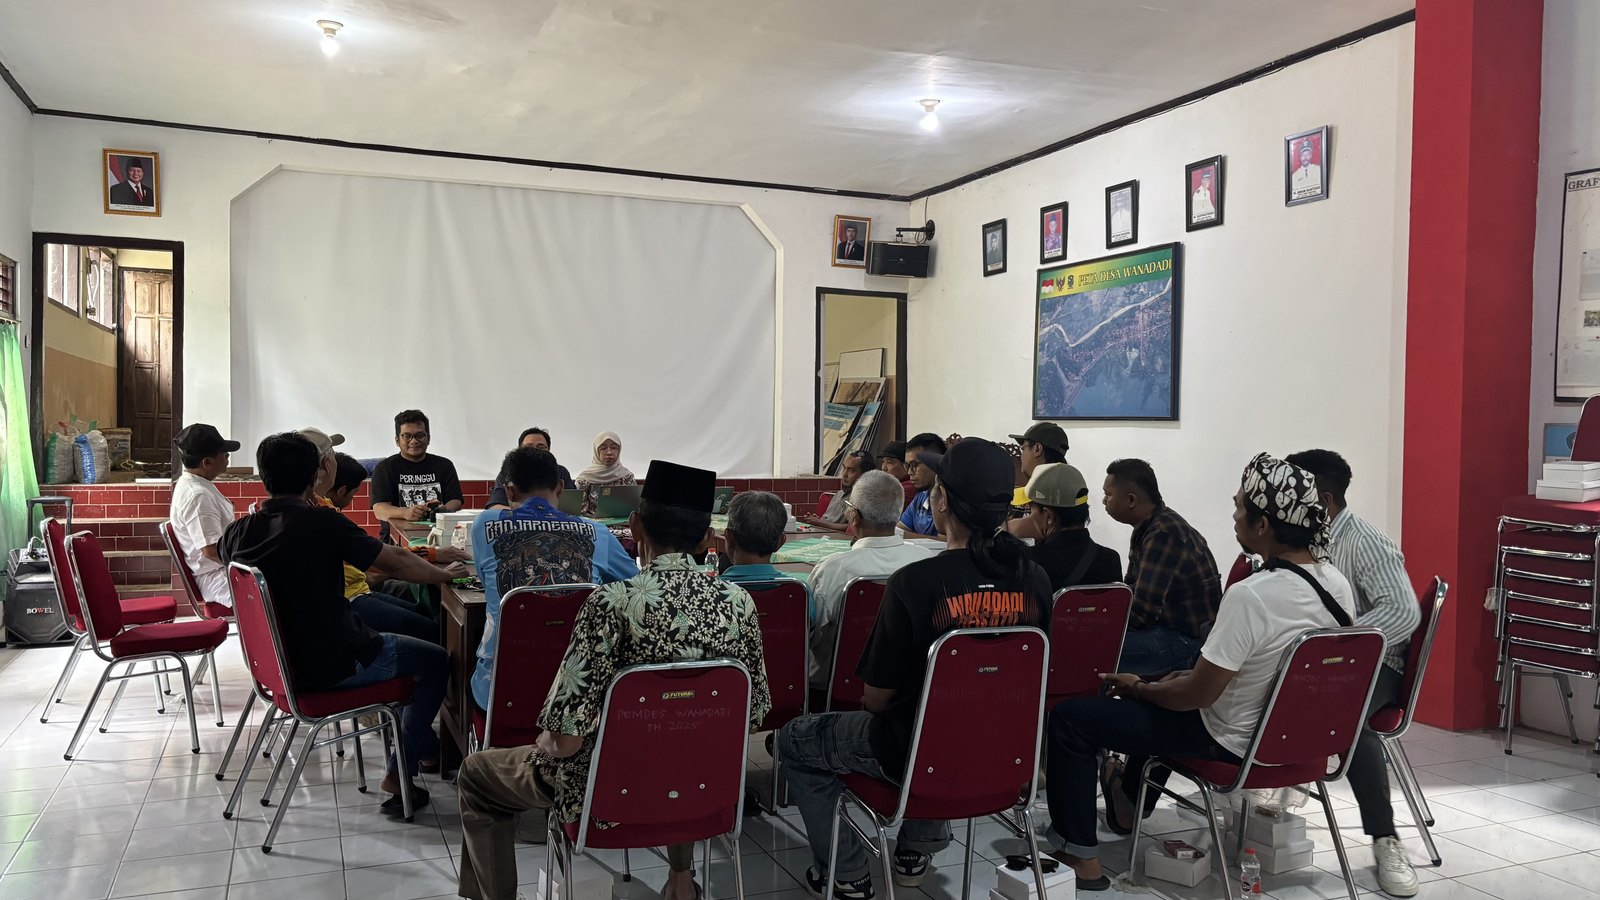
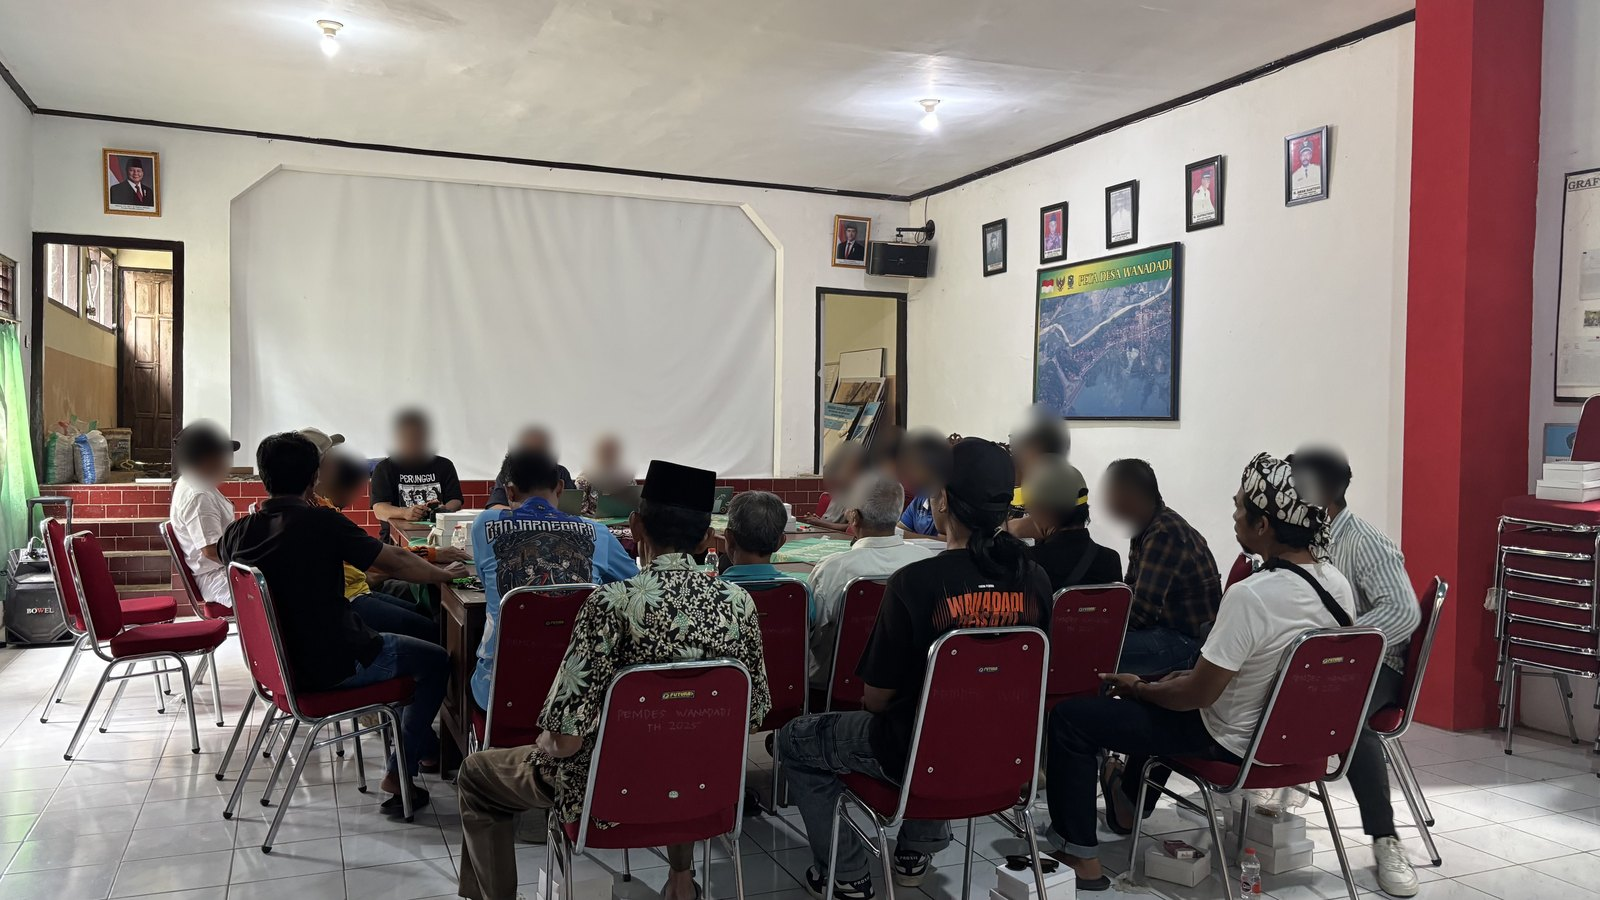
Tambah foto & sertifikat klien, blur wajah orang lain di foto SODEC

diff --git a/components/WorkGallery.tsx b/components/WorkGallery.tsx
@@ -288,7 +288,7 @@ export default function WorkGallery() {
       prefix="work"
       sectionId="work"
       showCta
-      imageSets={[2, 3, 2, 3].map((count, i) => Array.from({ length: count }, (_, m) => `/galeri/work-${i + 1}-${m + 1}.jpg`))}
+      imageSets={[4, 3, 3, 5].map((count, i) => Array.from({ length: count }, (_, m) => `/galeri/work-${i + 1}-${m + 1}.jpg`))}
     />
   )
 }
@@ -314,7 +314,7 @@ export function OrgActivities() {
     subtitle: t(`org.${n}.sub`),
     description: t(`org.${n}.desc`),
     tags: t(`org.${n}.tags`).split('|'),
-    images: n === 3 ? ['/galeri/org-3-1.jpg', '/galeri/org-3-2.jpg'] : [],
+    images: n === 3 ? ['/galeri/org-3-3.jpg', '/galeri/org-3-1.jpg', '/galeri/org-3-2.jpg'] : [`/galeri/org-${n}-1.jpg`],
   }))
 
   return (
@@ -340,8 +340,8 @@ export function OrgActivities() {
               <p className="text-xs md:text-sm font-semibold text-[var(--muted)] mb-5 font-sans">{item.subtitle}</p>
               {item.images.length > 0 && (
                 <div className="grid grid-cols-2 gap-2 mb-5">
-                  {item.images.map((src) => (
-                    <img key={src} src={src} alt={item.institution} className="w-full h-40 object-cover object-top rounded-xl border border-[var(--card-border)]" />
+                  {item.images.map((src, i) => (
+                    <img key={src} src={src} alt={item.institution} className={`w-full object-cover object-top rounded-xl border border-[var(--card-border)] ${i === 0 ? 'col-span-2 h-44 object-contain bg-white/5' : 'h-40'}`} />
                   ))}
                 </div>
               )}

diff --git a/docs/superpowers/specs/2026-11-16-order-37-rosyada-design.md b/docs/superpowers/specs/2026-11-16-order-37-rosyada-design.md
@@ -29,3 +29,10 @@ Situs portofolio dwibahasa (EN/ID) dari Template 1 (Next.js 14), memakai kerangk
 12. **Resolusi rendah.** Foto Trash Hero (480 x 319), poster Public Action (449 x 800), sampul laporan IPESOS (489 x 694), dan tangkapan layar Kementan/skripsi (667-1036 px). Minta berkas asli bila ada.
 13. **Berkas ganda.** `Documentations.zip` (30 MB) isinya sama dengan folder. `Portfolio.pdf` tidak dipasang sebagai berkas.
 14. **Kontak.** WhatsApp +62 856-4359-5324 dan email `rosyadawijayanti@gmail.com` mengikuti CV (konsisten dengan Portfolio.pdf untuk email).
+
+## Pembaruan 16 Nov 2026 (berkas tambahan klien)
+- Wajah orang lain di foto SODEC diburamkan (IPESOS 2, Sosmap IMG_0075, IMG_0038, IMG_9683). Rosyada diasumsikan perempuan berhijab krem di foto IPESOS (tidak diburamkan). Di foto Sosmap semua wajah diburamkan karena Rosyada tidak bisa dipastikan.
+- Sertifikat/piagam ditambahkan ke galeri: Kementan (work-3-3), DPD sertifikat + daftar nilai 89,75 (work-4-4/5), piagam Public Action (org-3-3). Daftar nilai DPD memuat NIM, tetap tampil karena sudah di dokumen resmi; bila ingin disembunyikan, blur.
+- Foto Sintesa (resolusi kecil, 445px) dan ICD ditambahkan ke kartu organisasi.
+- Tidak dipakai: konten Instagram DPD, notulensi BULD (memuat nama orang lain), duplikat folder "Magang - DPD RI".
+- Public Action dan Kementan tetap minim dokumentasi (sesuai catatan klien).
